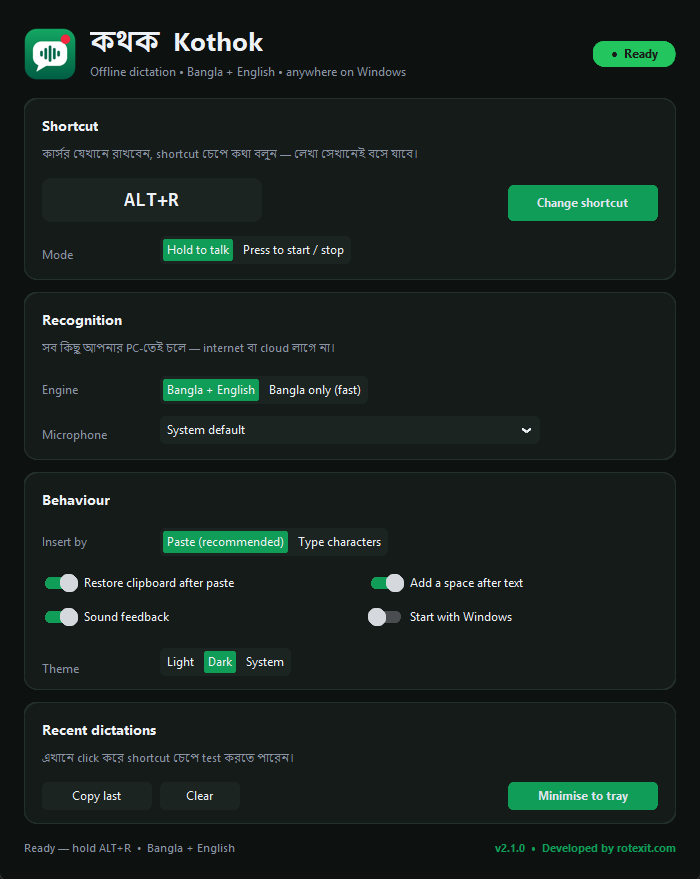
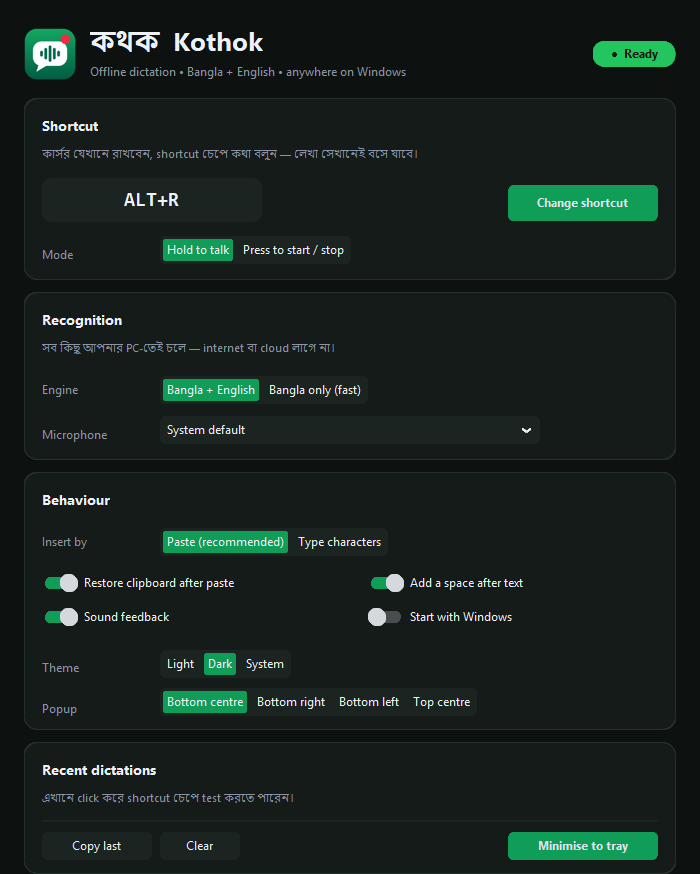
Choose where the listening popup appears
Bottom centre, bottom right (above the clock), bottom left or top centre,
from settings or the tray menu. README and website updated.

diff --git a/website/app/page.jsx b/website/app/page.jsx
@@ -10,6 +10,8 @@ const features = [
   { icon: "🇧🇩", title: "বাংলা + English একসাথে", text: "\"আমি আজকে I want to make a coffee\" — যেভাবে কথা বলেন, সেভাবেই লেখা।" },
   { icon: "⌨", title: "যেকোনো অ্যাপে", text: "Word, Chrome, Facebook, WhatsApp, VS Code — কার্সর যেখানে, লেখা সেখানে।" },
   { icon: "📦", title: "ইনস্টল লাগে না", text: "Portable — zip খুলে চালান। পেনড্রাইভে করে অন্য পিসিতেও নিয়ে যেতে পারবেন।" },
+  { icon: "🎚", title: "লাইভ popup, যেখানে চান", text: "কথা বলার সময় সাউন্ড বার নড়ে। popup-টা নিচে মাঝখানে, ঘড়ির উপরে, বাম কোণে বা উপরে — যেখানে খুশি রাখুন।" },
+  { icon: "🌗", title: "লাইট / ডার্ক থিম", text: "লাইট, ডার্ক, অথবা Windows-এর থিমের সাথে মিলিয়ে — যেটা চোখে আরাম।" },
   { icon: "🔄", title: "নিজে থেকে আপডেট", text: "নতুন ভার্সন এলে ব্যাকগ্রাউন্ডে চুপচাপ আপডেট হয়ে যায়, আপনার সেটিংস ঠিক থাকে।" },
   { icon: "💚", title: "ফ্রি ও ওপেন সোর্স", text: "MIT লাইসেন্স। কোড GitHub-এ খোলা — দেখুন, শিখুন, অবদান রাখুন।" },
 ];
@@ -107,12 +109,12 @@ export default function Home() {
                 ))}
               </ol>
               <p className="muted small">
-                সেটিংস থেকে শর্টকাট, মোড, মাইক্রোফোন, ইঞ্জিন (বাংলা + English / শুধু বাংলা) আর থিম (লাইট / ডার্ক / ডিভাইস) সব বদলানো যায়।
+                সেটিংস থেকে শর্টকাট, মোড, মাইক্রোফোন, ইঞ্জিন (বাংলা + English / শুধু বাংলা) থিম (লাইট / ডার্ক / ডিভাইস) আর popup-এর জায়গা সব বদলানো যায়।
               </p>
             </div>
             <figure className="shot">
-              <img className="only-light" src="/screenshot-light.png" alt="Kothok-এর সেটিংস উইন্ডো" width="700" height="879" />
-              <img className="only-dark" src="/screenshot-dark.png" alt="Kothok-এর সেটিংস উইন্ডো (ডার্ক থিম)" width="700" height="879" />
+              <img className="only-light" src="/screenshot-light.png" alt="Kothok-এর সেটিংস উইন্ডো" width="700" height="874" />
+              <img className="only-dark" src="/screenshot-dark.png" alt="Kothok-এর সেটিংস উইন্ডো (ডার্ক থিম)" width="700" height="874" />
               <figcaption>কথক-এর সেটিংস উইন্ডো</figcaption>
             </figure>
           </div>

diff --git a/app.py b/app.py
@@ -30,7 +30,7 @@ import numpy as np
 APP_NAME = "Kothok"          # কথক - "the one who speaks"
 APP_BN = "কথক"
 APP_ID = "Kothok"
-VERSION = "2.4.0"
+VERSION = "2.5.0"
 WEBSITE = "https://rotexit.com"
 UPDATE_REPO = "itrabbi24/kothok"   # GitHub releases are checked for new versions
 UPDATE_ASSET = "Kothok-update.zip"  # app-only zip (no models) attached to every release
@@ -42,6 +42,8 @@ C_BG, C_CARD = ("#f4f7f5", "#0d1210"), ("#ffffff", "#141b18")
 C_BORDER, C_KEY = ("#dde5e0", "#24302b"), ("#eaf0ec", "#1b2420")
 C_TEXT, C_MUTED = ("#14201b", "#eef1f6"), ("#5f6b66", "#8b93a5")
 C_SEL, C_SEL_H = ("#bfe6cf", "#0f9d58"), ("#a9dcbe", "#0b7d46")   # selected segment (light tint / green)
+POSITIONS = {"bottom-center": "Bottom centre", "bottom-right": "Bottom right",
+             "bottom-left": "Bottom left", "top-center": "Top centre"}
 THEMES = {"light": "Light", "dark": "Dark", "system": "System"}
 C_ACCENT, C_ACCENT_H = "#0f9d58", "#0b7d46"   # Bangladesh green
 C_GREEN, C_AMBER, C_RED, C_GREY = "#22c55e", "#f59e0b", "#ef4444", "#6b7280"
@@ -377,6 +379,7 @@ DEFAULTS = {
     "autostart": False,
     "auto_update": True,         # silently download + install new GitHub releases
     "theme": "light",            # light | dark | system
+    "popup_position": "bottom-center",  # where the listening popup appears (see POSITIONS)
     "first_run": True,
 }
 
@@ -866,8 +869,8 @@ class Overlay:
         # live sound bars on the right, driven by the microphone level while listening
         self.level, self.heights = 0.0, [3.0] * 5
         self.bars = [self.c.create_rectangle(0, 0, 0, 0, fill="#22c55e", outline="") for _ in range(5)]
-        sw, sh = root.winfo_screenwidth(), root.winfo_screenheight()
-        self.top.geometry(f"{self.W}x{self.H}+{(sw - self.W) // 2}+{sh - self.H - 90}")
+        # was always bottom centre: sw, sh = screen size; geometry(+{(sw - W) // 2}+{sh - H - 90})
+        self.place("bottom-center")
         self.top.update_idletasks()
         self.hwnd = user32.GetParent(self.top.winfo_id()) or self.top.winfo_id()
         GWL_EXSTYLE, WS_EX_NOACTIVATE, WS_EX_TOOLWINDOW, WS_EX_TOPMOST = -20, 0x08000000, 0x80, 0x8
@@ -878,6 +881,21 @@ class Overlay:
         self.hide()
         self._tick()
         self._animate()
+
+    def place(self, position):
+        """Put the popup at a corner/edge of the work area (screen minus taskbar)."""
+        r = wintypes.RECT()
+        if not user32.SystemParametersInfoW(0x30, 0, ctypes.byref(r), 0):  # SPI_GETWORKAREA
+            r.left, r.top = 0, 0
+            r.right, r.bottom = self.top.winfo_screenwidth(), self.top.winfo_screenheight()
+        m = 16
+        x = {"bottom-right": r.right - self.W - m, "bottom-left": r.left + m}.get(
+            position, (r.left + r.right - self.W) // 2)
+        y = r.top + m if position == "top-center" else r.bottom - self.H - (m if position in ("bottom-right", "bottom-left") else 40)
+        self.top.geometry(f"{self.W}x{self.H}+{x}+{y}")
+        if getattr(self, "hwnd", None):  # Tk ignores geometry changes once Win32 has shown the window
+            SWP_NOSIZE, SWP_NOZORDER, SWP_NOACTIVATE = 1, 4, 0x10
+            user32.SetWindowPos(self.hwnd, None, x, y, 0, 0, SWP_NOSIZE | SWP_NOZORDER | SWP_NOACTIVATE)
 
     def _pill(self, x1, y1, x2, y2, r, **kw):
         c = self.c
@@ -949,6 +967,7 @@ class App:
         self.updater = Updater(self)
 
         self.overlay = Overlay(root)
+        self.overlay.place(self.cfg.get("popup_position", "bottom-center"))
         self.hook = KeyboardHook(lambda ev: self.ui.put(("hook", ev)))
         try:
             self.hook.set_hotkey(self.cfg["hotkey"])
@@ -1184,6 +1203,10 @@ class App:
             Item("Pause shortcut", on(self.toggle_pause), checked=lambda i: self.paused),
             Item("Sound feedback", on(self.toggle_sounds), checked=lambda i: self.cfg["sounds"]),
             Item("Start with Windows", on(self.toggle_autostart), checked=lambda i: self.cfg["autostart"]),
+            Item("Popup position", Menu(*[
+                Item(label, on(lambda p=p: self.set_position(p)),
+                     checked=lambda i, p=p: self.cfg.get("popup_position", "bottom-center") == p, radio=True)
+                for p, label in POSITIONS.items()])),
             Item("Theme", Menu(*[
                 Item(label, on(lambda t=t: self.set_theme(t)),
                      checked=lambda i, t=t: self.cfg.get("theme", "light") == t, radio=True)
@@ -1239,6 +1262,14 @@ class App:
             return
         self.quit()
 
+    def set_position(self, pos):
+        self.cfg["popup_position"] = pos; self.persist()
+        self.overlay.place(pos)
+        if hasattr(self, "pos_var"):
+            self.pos_var.set(POSITIONS[pos])
+        if not self.recording and not self.busy:  # quick preview of the new spot
+            self.overlay.show("এখানে দেখাবে", "#22c55e"); self.root.after(1500, self.overlay.hide)
+
     def set_theme(self, theme):
         import customtkinter as ctk
         self.cfg["theme"] = theme; self.persist()
@@ -1276,7 +1307,7 @@ class App:
         import customtkinter as ctk
         r = self.root
         r.title(f"{APP_NAME}")
-        r.geometry("700x880"); r.minsize(640, 820)
+        r.geometry("700x930"); r.minsize(640, 870)  # was 700x880 / 640x820 before the Popup row
         # customtkinter replaces the window icon ~200ms after start, so set ours after that
         # (frozen builds keep bundled data in sys._MEIPASS = the _internal folder)
         ico = Path(getattr(sys, "_MEIPASS", ROOT)) / "app.ico"
@@ -1397,7 +1428,13 @@ class App:
         ctk.CTkSegmentedButton(c, values=list(THEMES.values()), variable=self.theme_var, font=F(12),
                                selected_color=C_SEL, selected_hover_color=C_SEL_H, text_color=C_TEXT, unselected_color=C_KEY, fg_color=C_KEY,
                                command=lambda v: self.set_theme({b: a for a, b in THEMES.items()}[v])).grid(
-            row=3, column=1, columnspan=2, sticky="w", pady=(0, 14))
+            row=3, column=1, columnspan=2, sticky="w", pady=(0, 8))
+        label(c, 4, "Popup")
+        self.pos_var = tk.StringVar(value=POSITIONS[self.cfg.get("popup_position", "bottom-center")])
+        ctk.CTkSegmentedButton(c, values=list(POSITIONS.values()), variable=self.pos_var, font=F(12),
+                               selected_color=C_SEL, selected_hover_color=C_SEL_H, text_color=C_TEXT, unselected_color=C_KEY, fg_color=C_KEY,
+                               command=lambda v: self.set_position({b: a for a, b in POSITIONS.items()}[v])).grid(
+            row=4, column=1, columnspan=2, sticky="w", pady=(0, 14))
 
         # ---- history card
         c = card(4, "Recent dictations", "এখানে click করে shortcut চেপে test করতে পারেন।")
